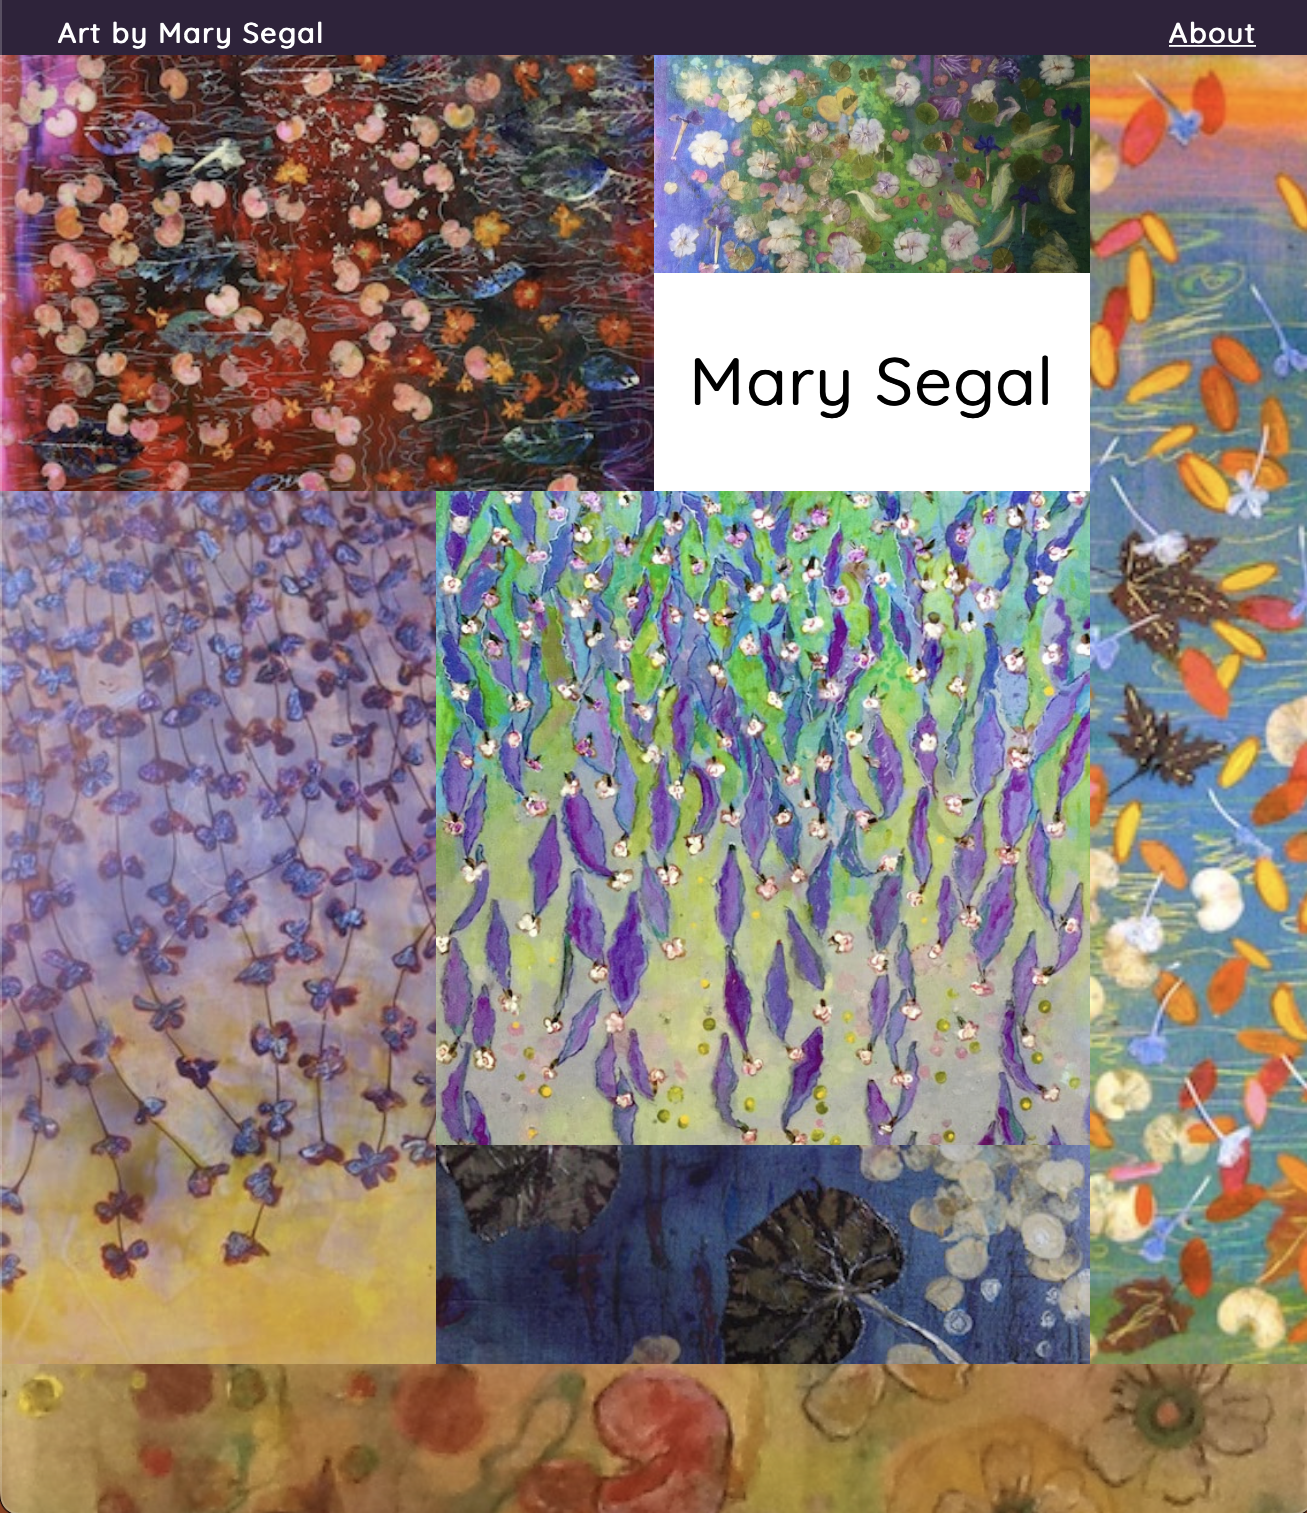
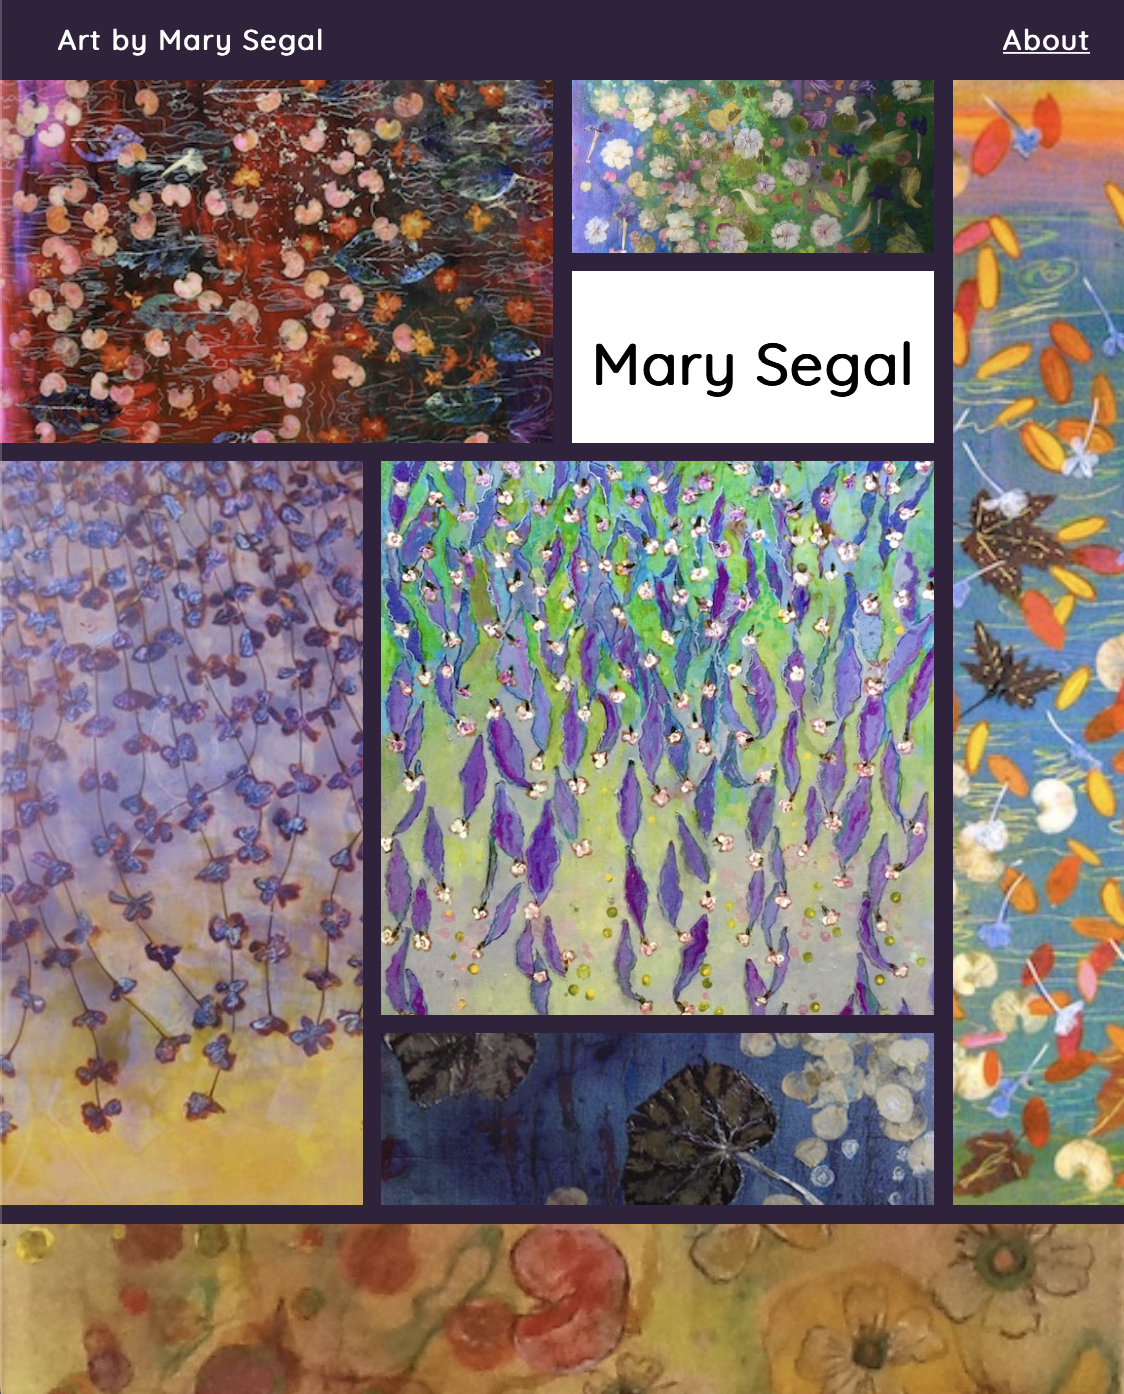
Portfolio Pics + nav email
Created and linked new images for portfolio pages
The new images are the same size so the area looks more uniform.

Also added a menu item "emil us" that opens a message to
hello@bibabyte.com

diff --git a/pages/research.html b/pages/research.html
@@ -31,6 +31,8 @@
 					<li class="menu"><a href="../index.html#portfolio">Portfolio</a></li>
 					<li class="menu"><a href="../pages/research.html">Why you need a website</a></li>
 					<li class="menu"><a href="../pages/why_us.html">Why choose BibaByte</a></li>
+                    <li class="menu"><a href="mailto:hello@bibabyte.com">Email us!</a></li>
+
 				</ol>
 			</nav>
 		</section> 

diff --git a/pages/landing.html b/pages/landing.html
@@ -29,6 +29,8 @@
 					<li class="menu"><a href="../index.html#portfolio">Portfolio</a></li>
 					<li class="menu"><a href="../pages/research.html">Why you need a website</a></li>
 					<li class="menu"><a href="../pages/why_us.html">Why choose BibaByte</a></li>
+					<li class="menu"><a href="mailto:hello@bibabyte.com">Email us!</a></li>
+
 				</ol>
 			</nav>
 		</section> 

diff --git a/pages/pricing.html b/pages/pricing.html
@@ -29,6 +29,8 @@
 					<li class="menu"><a href="../index.html#portfolio">Portfolio</a></li>
 					<li class="menu"><a href="../pages/research.html">Why you need a website</a></li>
 					<li class="menu"><a href="../pages/why_us.html">Why choose BibaByte</a></li>
+					<li class="menu"><a href="mailto:hello@bibabyte.com">Email us!</a></li>
+
 				</ol>
 			</nav>
 		</section> 

diff --git a/pages/why_us.html b/pages/why_us.html
@@ -29,6 +29,8 @@
 					<li class="menu"><a href="../index.html#portfolio">Portfolio</a></li>
 					<li class="menu"><a href="../pages/research.html">Why you need a website</a></li>
 					<li class="menu"><a href="../pages/why_us.html">Why choose BibaByte</a></li>
+					<li class="menu"><a href="mailto:hello@bibabyte.com">Email us!</a></li>
+
 				</ol>
 			</nav>
 		</section> 

diff --git a/index.html b/index.html
@@ -29,6 +29,7 @@
 					<li class="menu"><a href="#portfolio">Portfolio</a></li>
 					<li class="menu"><a href="pages/research.html">Why you need a website</a></li>
 					<li class="menu"><a href="pages/why_us.html">Why choose BibaByte</a></li>
+					<li class="menu"><a href="mailto:hello@bibabyte.com">Email us!</a></li>
 				</ol>
 			</nav>
 		</section> 
